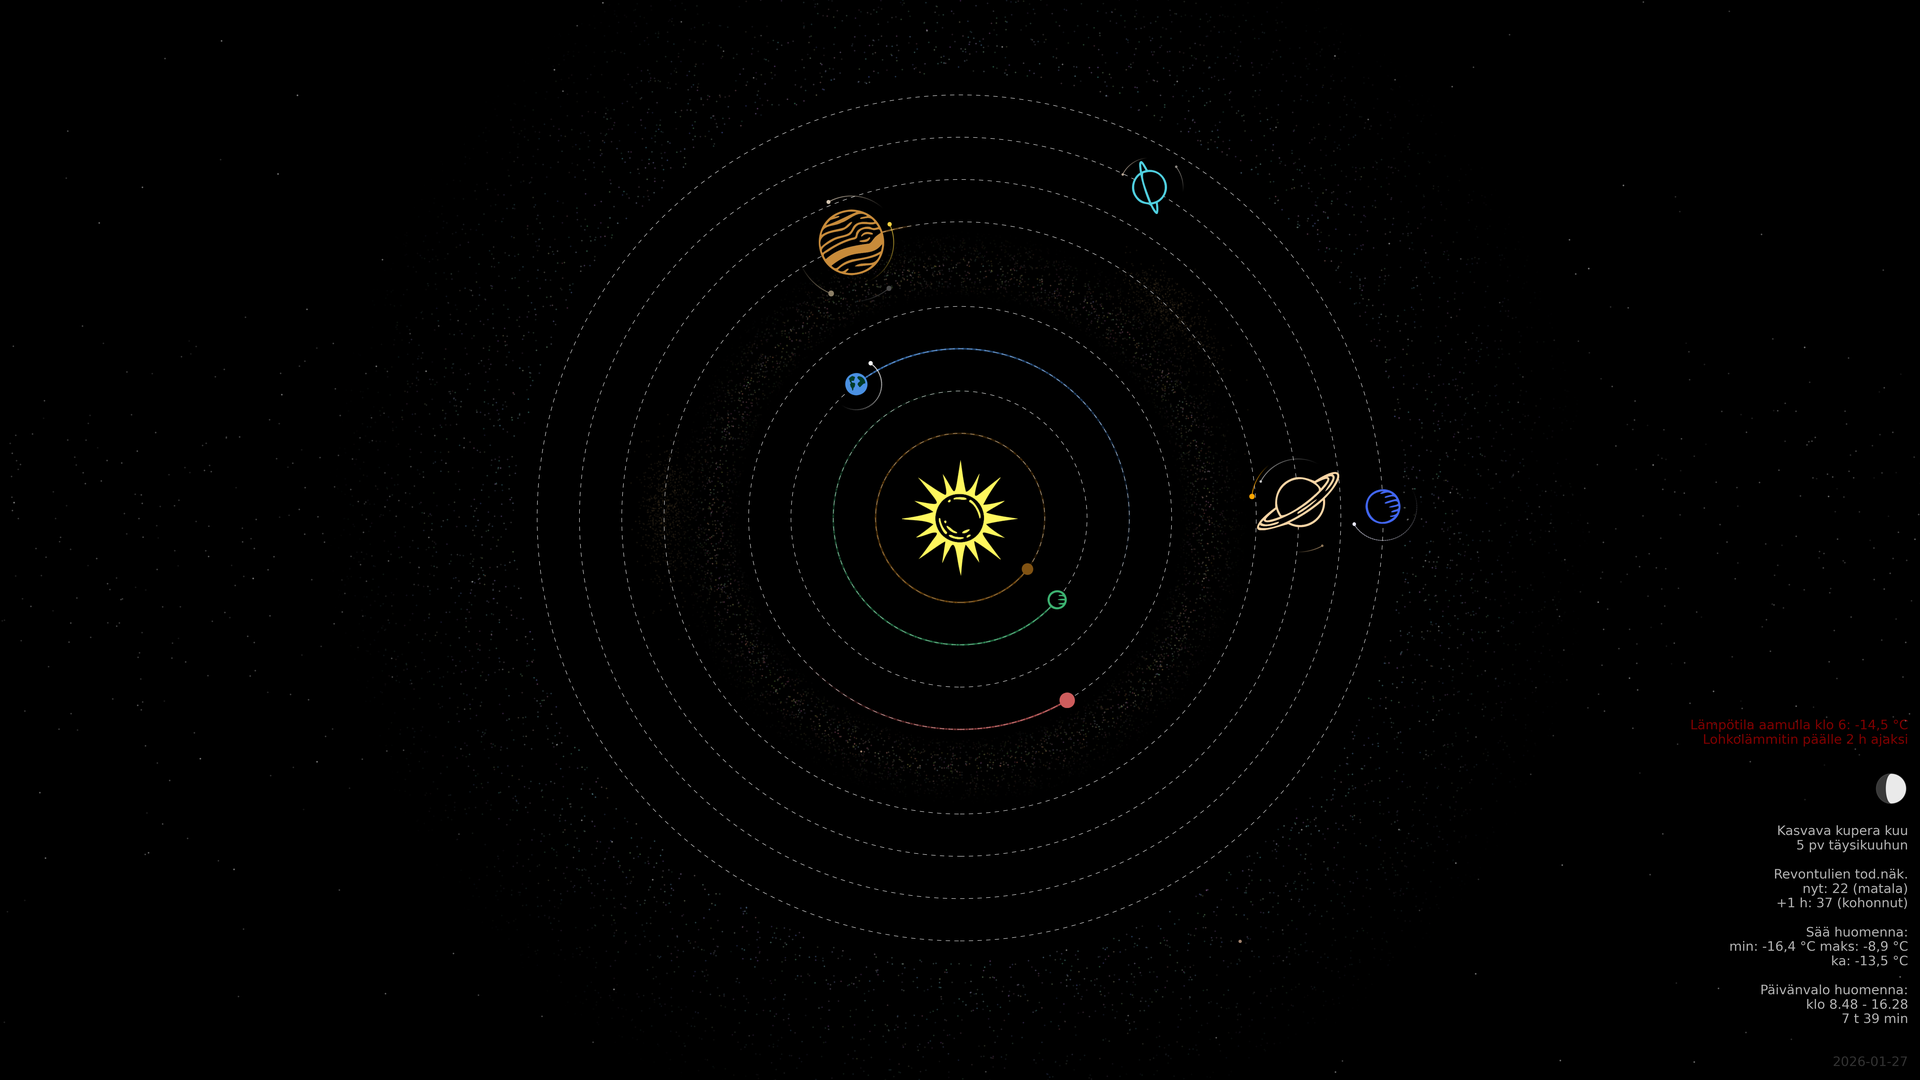
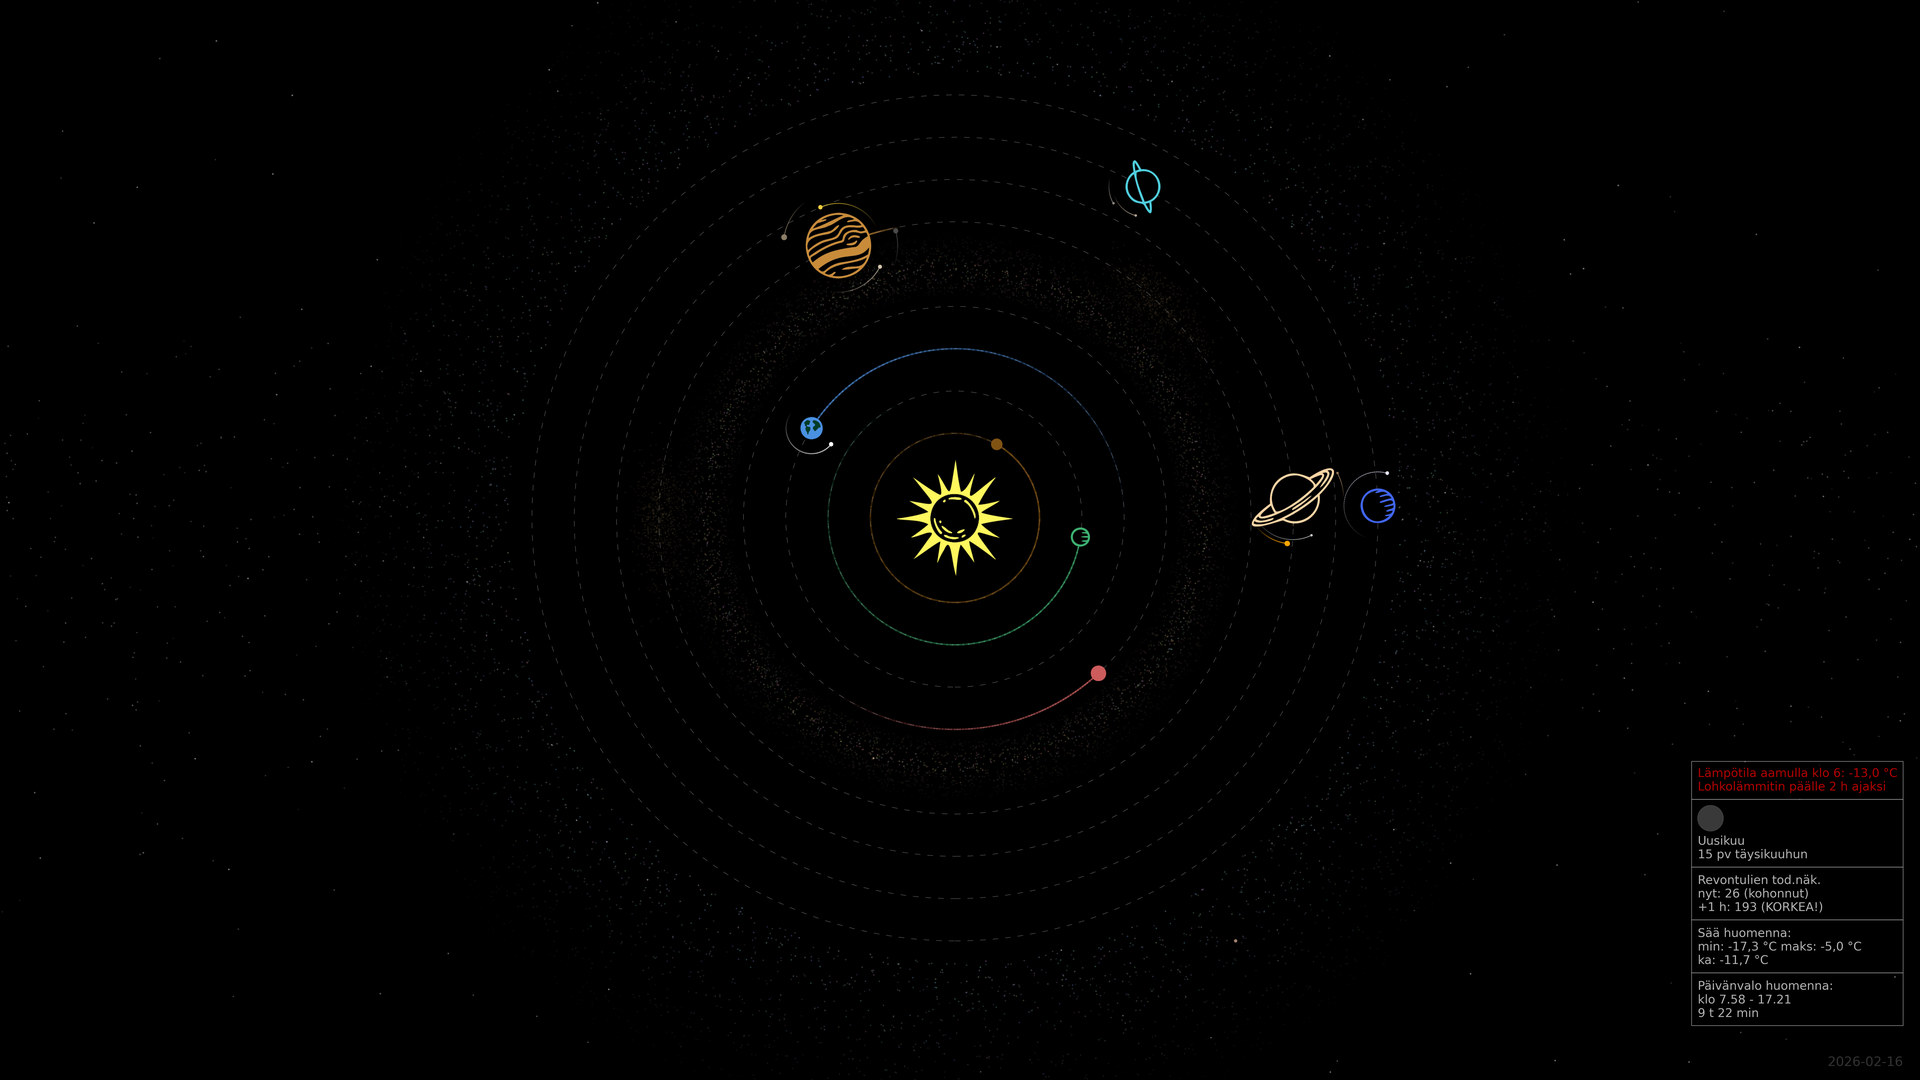
Refactor info text display to use stacked boxes

diff --git a/solarmap.py b/solarmap.py
@@ -1044,111 +1044,147 @@ if show_info_text:
     cal = utc.Calendar()
     date_str = f"{int(cal[0])}-{int(cal[1]):02d}-{int(cal[2]):02d}"
 
-    info_text = (
-        f"{phase_name}\n"
-        f"{days_to_full:.0f} pv täysikuuhun\n"
-        f"\n"
-        f"{aurora_line}"
-        f"\n"
-        f"{weather_line}"
-        f"\n"
-        f"Päivänvalo huomenna:\n"
-        f"klo {sunrise_time} - {sunset_time}\n"
-        f"{daylight_hours} t {daylight_mins} min"
-    )
+info_boxes = []
 
-    # Count lines to position moon indicator at first line
-    num_lines = info_text.count('\n')+2
-    line_height = 0.04  # Adjust if needed for your text size
-
-    # Position for moon phase circle (aligned with first line)
-    moon_indicator_x = text_x - 0.04
-    moon_indicator_y = text_y + (num_lines - 1) * line_height  # Top line position
-    moon_radius = 0.035
-    
-# Car block heater warning if morning temp < 5°C
-    if morning_temp is not None and morning_temp < 5:
-        # Determine heating time based on temperature
-        if morning_temp >= -5:
-            heating_time = "0,5 h"
-        elif morning_temp >= -10:
-            heating_time = "1 h"
-        else:
-            heating_time = "2 h"
-        
-        warning_text = f"Lämpötila aamulla klo 6: {morning_temp:+.1f} °C\nLohkolämmitin päälle {heating_time} ajaksi".replace('.', ',')
-        warning_y = moon_indicator_y + 0.10
-        warning_x = moon_indicator_x + 0.04
-        ax.text(warning_x, warning_y, warning_text,
-                color='red', fontsize=12,
-                ha='right', va='bottom',
-                alpha=0.5)
-
-    # Draw dark gray base circle
-    ax.add_patch(plt.Circle((moon_indicator_x, moon_indicator_y), moon_radius, fill=True, color='#404040', alpha=0.9, zorder=10))
-
-    # Draw illuminated part
-    if illumination > 0.01:
-        theta = np.linspace(np.pi/2, -np.pi/2, 100)
-        
-        if is_waxing:
-            # Right side lit
-            x_outer = moon_indicator_x + moon_radius * np.cos(theta)
-            y_outer = moon_indicator_y + moon_radius * np.sin(theta)
-            
-            terminator_x_pos = moon_radius - (2 * illumination * moon_radius)
-            curve_amount = abs(illumination - 0.5) * 2
-            ellipse_width = curve_amount * moon_radius
-            
-            if illumination < 0.5:
-                x_terminator = moon_indicator_x + ellipse_width * np.cos(theta)
-            else:
-                x_terminator = moon_indicator_x - ellipse_width * np.cos(theta)
-            y_terminator = moon_indicator_y + moon_radius * np.sin(theta)
-            
-            x_lit = np.concatenate([x_outer, x_terminator[::-1]])
-            y_lit = np.concatenate([y_outer, y_terminator[::-1]])
-            
-            ax.fill(x_lit, y_lit, color='white', alpha=0.9, zorder=11, linewidth=0)
-
-        else:
-            # Left side lit
-            x_outer = moon_indicator_x - moon_radius * np.cos(theta)
-            y_outer = moon_indicator_y + moon_radius * np.sin(theta)
-            
-            terminator_x_pos = -moon_radius + (2 * illumination * moon_radius)
-            curve_amount = abs(illumination - 0.5) * 2
-            ellipse_width = curve_amount * moon_radius
-            
-            if illumination > 0.5:
-                x_terminator = moon_indicator_x + ellipse_width * np.cos(theta)
-            else:
-                x_terminator = moon_indicator_x - ellipse_width * np.cos(theta)
-            y_terminator = moon_indicator_y + moon_radius * np.sin(theta)
-            
-            x_lit = np.concatenate([x_outer, x_terminator[::-1]])
-            y_lit = np.concatenate([y_outer, y_terminator[::-1]])
-            
-            ax.fill(x_lit, y_lit, color='white', alpha=0.9, zorder=11, linewidth=0)
-
-    # Plot info text
-    ax.text(text_x, text_y, info_text,
-            color='white', fontsize=12,
-            ha='right', va='bottom',
-            alpha=0.7)
-
-    # Plot date separately in bottom right corner
-    if fig_aspect > 1:
-        date_x = 1.3 * aspect - 0.07
-        date_y = -1.3 + 0.05
+# 1. Block heater alert (if needed)
+if morning_temp is not None and morning_temp < 5:
+    if morning_temp >= -5:
+        heating_time = "0,5 h"
+    elif morning_temp >= -10:
+        heating_time = "1 h"
     else:
-        date_x = 1.3 - 0.07
-        date_y = (-1.3 / aspect) + 0.05
+        heating_time = "2 h"
+
+    warning_text = (
+        f"Lämpötila aamulla klo 6: {morning_temp:+.1f} °C\n"
+        f"Lohkolämmitin päälle {heating_time} ajaksi"
+    ).replace('.', ',')
+
+    info_boxes.append(warning_text)
+
+# 2. Moon phase
+moon_text = f"\n\n{phase_name}\n{days_to_full:.0f} pv täysikuuhun"
+info_boxes.append(moon_text)
+
+# 3. Aurora
+if aurora_line:
+    info_boxes.append(aurora_line.strip())
+
+# 4. Weather
+if weather_line:
+    info_boxes.append(weather_line.strip())
+
+# 5. Daylight
+daylight_text = (
+    f"Päivänvalo huomenna:\n"
+    f"klo {sunrise_time} - {sunset_time}\n"
+    f"{daylight_hours} t {daylight_mins} min"
+)
+info_boxes.append(daylight_text)
+
+
+# Draw stacked info boxes
+box_width = 0.5
+box_spacing = 0.0
+box_padding = 0.015
+current_y = text_y
     
-    ax.text(date_x, date_y, f"{date_str}",
-            color='white', fontsize=12,
-            ha='right', va='bottom',
-            alpha=0.2)
+for i, box_text in enumerate(reversed(info_boxes)):
+    # Count lines in this box
+    num_lines = box_text.count('\n') + 1
+    line_height = 0.035
+    box_height = num_lines * line_height + 2 * box_padding - 0.01
+    
+    # Draw white outline rectangle
+    box_left = text_x - box_width
+    box_bottom = current_y
+    
+    rect = plt.Rectangle((box_left, box_bottom), box_width, box_height,
+                        linewidth=0.3, edgecolor='white', facecolor='none',
+                        alpha=1, zorder=10)
+    ax.add_patch(rect)
+    
+    # Draw text inside box (left-aligned)
+    text_x_pos = box_left + box_padding
+    text_y_pos = box_bottom + box_padding
+    
+    is_block_box = (i == len(info_boxes) - 1)
+    text_color = 'red' if is_block_box else 'white'
+
+
+    ax.text(text_x_pos, text_y_pos, box_text,
+            color=text_color, fontsize=11,
+            ha='left', va='bottom',
+            alpha=0.7, zorder=11)
+    
+    # Special handling for first box (moon phase) - add moon indicator
+    if i == len(info_boxes) - 2:
+        moon_radius = 0.03
+
+        # top-left inside the box
+        moon_indicator_x = box_left + moon_radius + box_padding
+        moon_indicator_y = box_bottom + box_height - moon_radius - box_padding
+
+        # Draw dark gray base circle
+        ax.add_patch(plt.Circle((moon_indicator_x, moon_indicator_y), moon_radius, 
+                                fill=True, color='#404040', alpha=0.9, zorder=12))
+        
+        # Draw illuminated part
+        if illumination > 0.01:
+            theta = np.linspace(np.pi/2, -np.pi/2, 100)
+            
+            if is_waxing:
+                # Right side lit
+                x_outer = moon_indicator_x + moon_radius * np.cos(theta)
+                y_outer = moon_indicator_y + moon_radius * np.sin(theta)
+                
+                curve_amount = abs(illumination - 0.5) * 2
+                ellipse_width = curve_amount * moon_radius
+                
+                if illumination < 0.5:
+                    x_terminator = moon_indicator_x + ellipse_width * np.cos(theta)
+                else:
+                    x_terminator = moon_indicator_x - ellipse_width * np.cos(theta)
+                y_terminator = moon_indicator_y + moon_radius * np.sin(theta)
+                
+                x_lit = np.concatenate([x_outer, x_terminator[::-1]])
+                y_lit = np.concatenate([y_outer, y_terminator[::-1]])
+                
+                ax.fill(x_lit, y_lit, color='white', alpha=0.9, zorder=13, linewidth=0)
+            else:
+                # Left side lit
+                x_outer = moon_indicator_x - moon_radius * np.cos(theta)
+                y_outer = moon_indicator_y + moon_radius * np.sin(theta)
+                
+                curve_amount = abs(illumination - 0.5) * 2
+                ellipse_width = curve_amount * moon_radius
+                
+                if illumination > 0.5:
+                    x_terminator = moon_indicator_x + ellipse_width * np.cos(theta)
+                else:
+                    x_terminator = moon_indicator_x - ellipse_width * np.cos(theta)
+                y_terminator = moon_indicator_y + moon_radius * np.sin(theta)
+                
+                x_lit = np.concatenate([x_outer, x_terminator[::-1]])
+                y_lit = np.concatenate([y_outer, y_terminator[::-1]])
+                
+                ax.fill(x_lit, y_lit, color='white', alpha=0.9, zorder=13, linewidth=0)
+
+    # Move up for next box
+    current_y += box_height + box_spacing
+
+# Plot date separately in bottom right corner
+if fig_aspect > 1:
+    date_x = 1.3 * aspect - 0.07
+    date_y = -1.3 + 0.05
+else:
+    date_x = 1.3 - 0.07
+    date_y = (-1.3 / aspect) + 0.05
+
+ax.text(date_x, date_y, f"{date_str}",
+        color='white', fontsize=12,
+        ha='right', va='bottom',
+        alpha=0.2)
 
 
 
